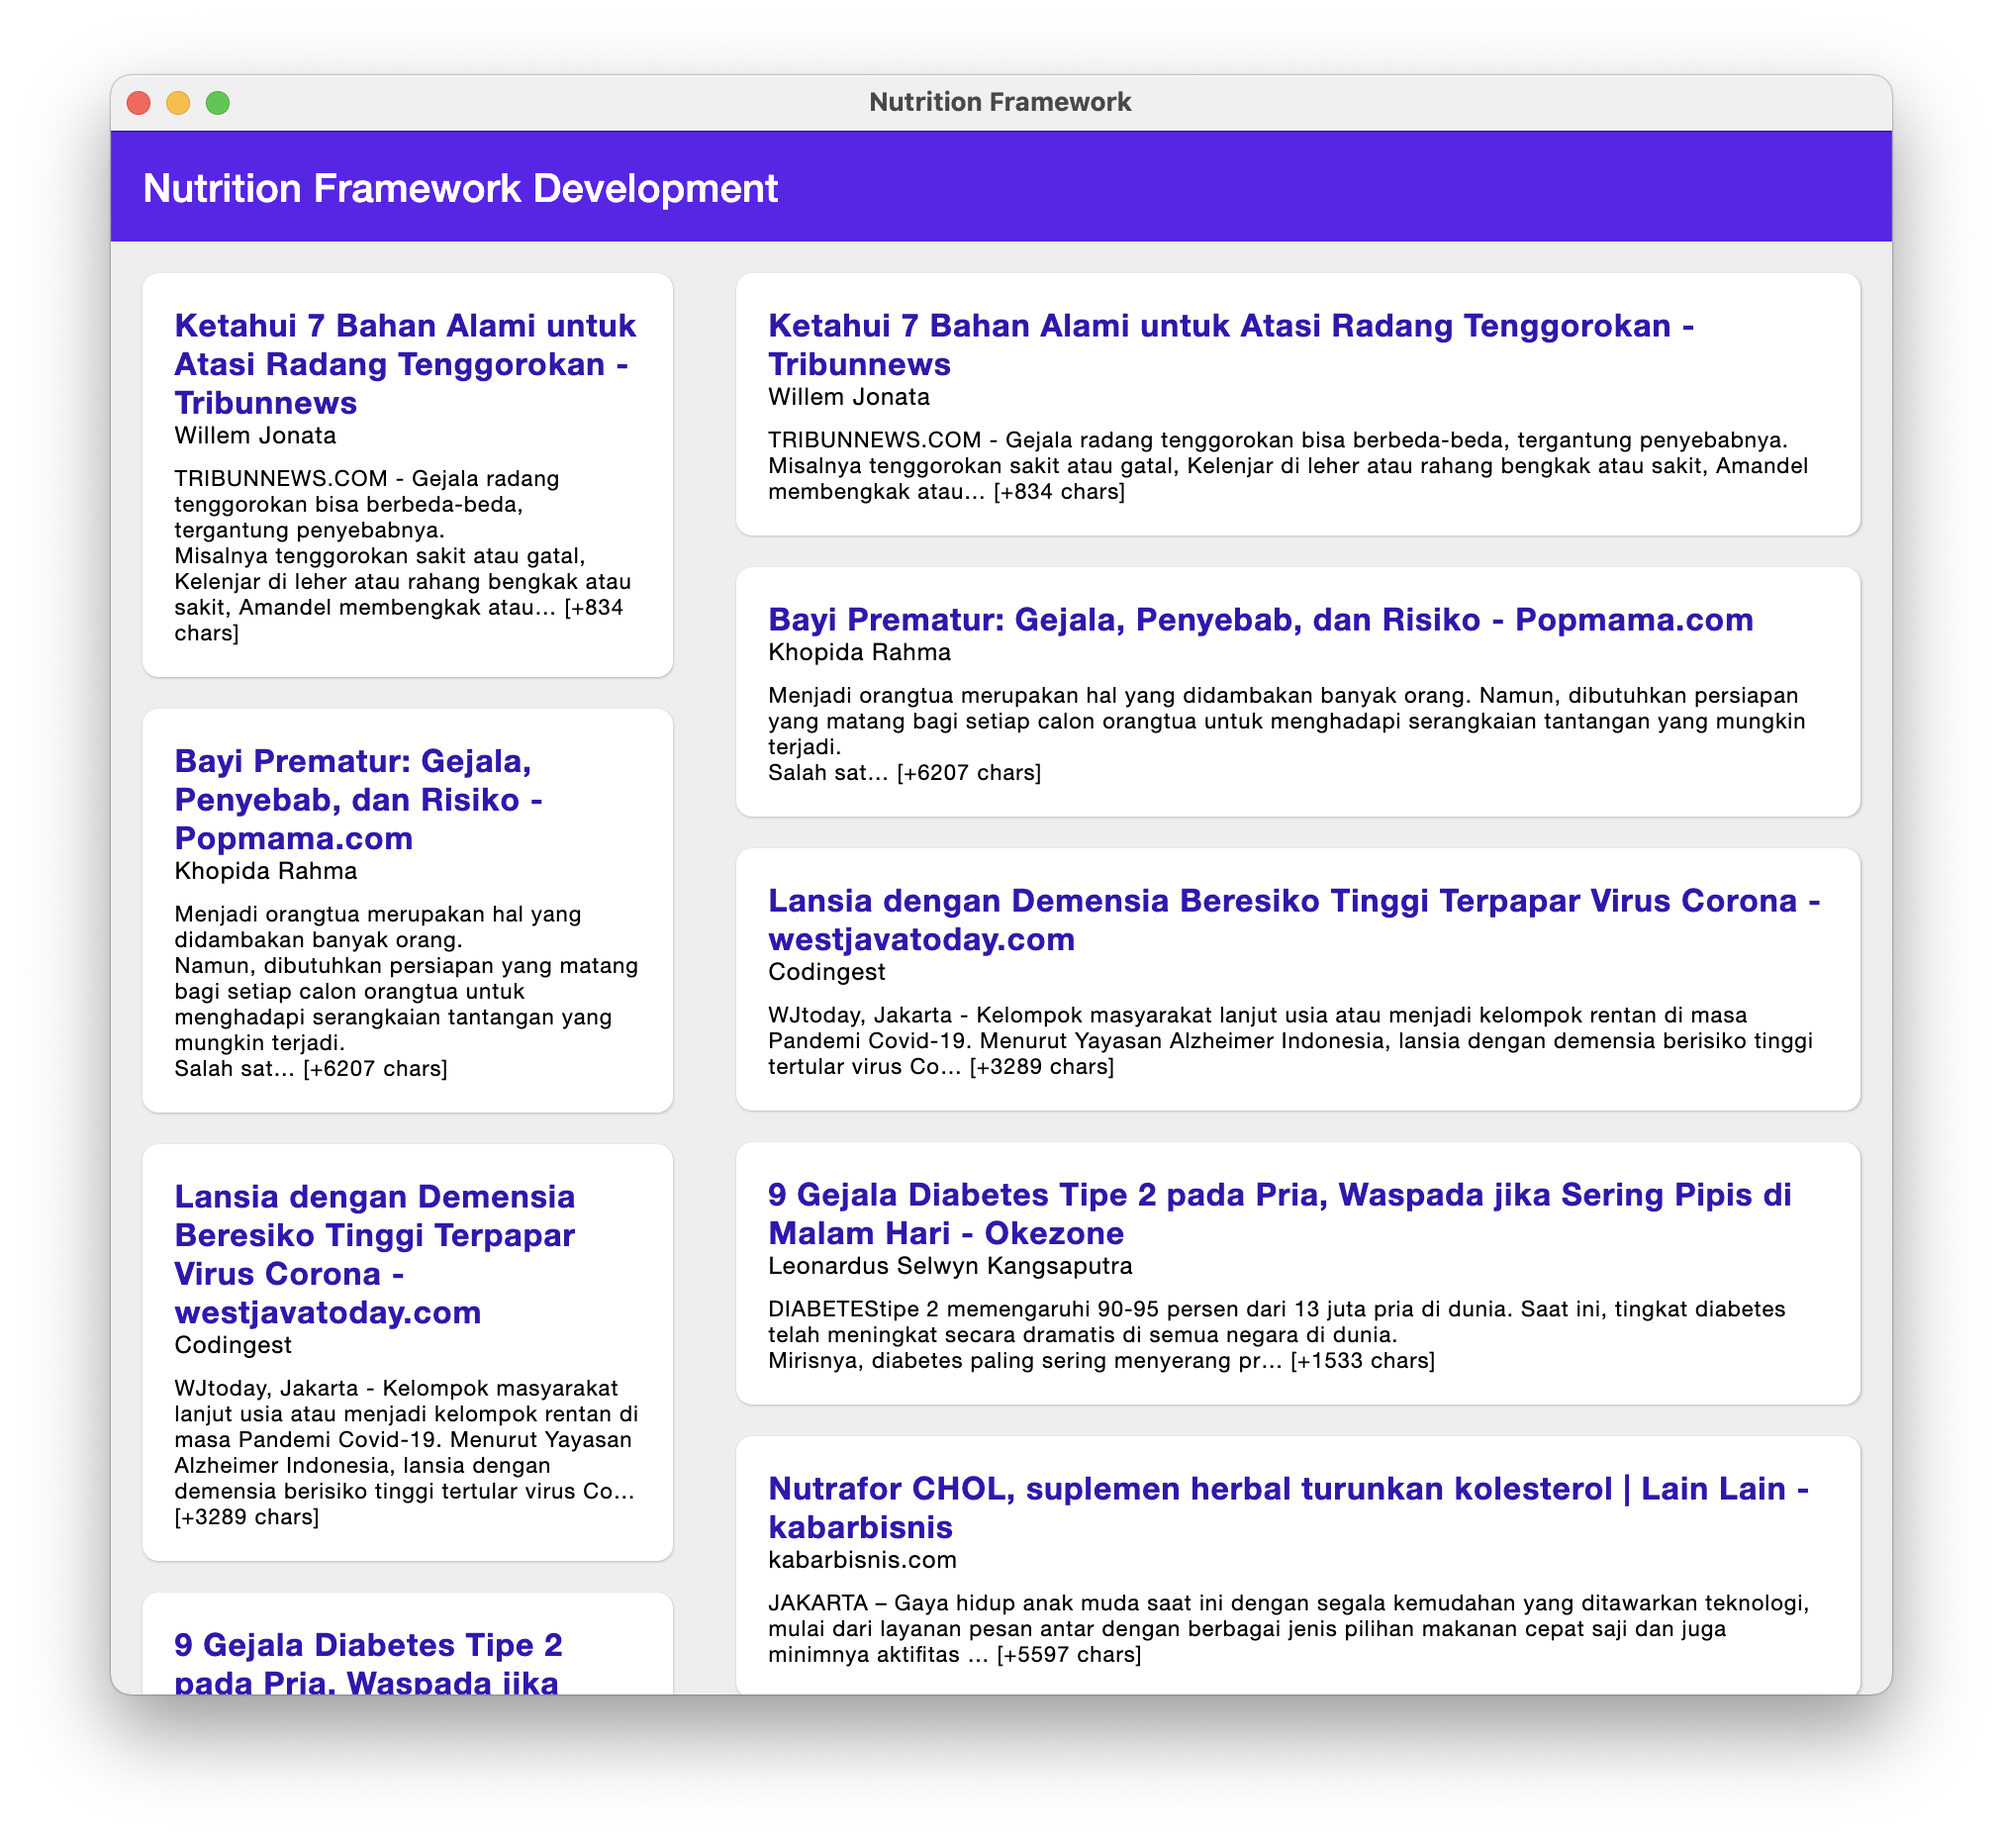
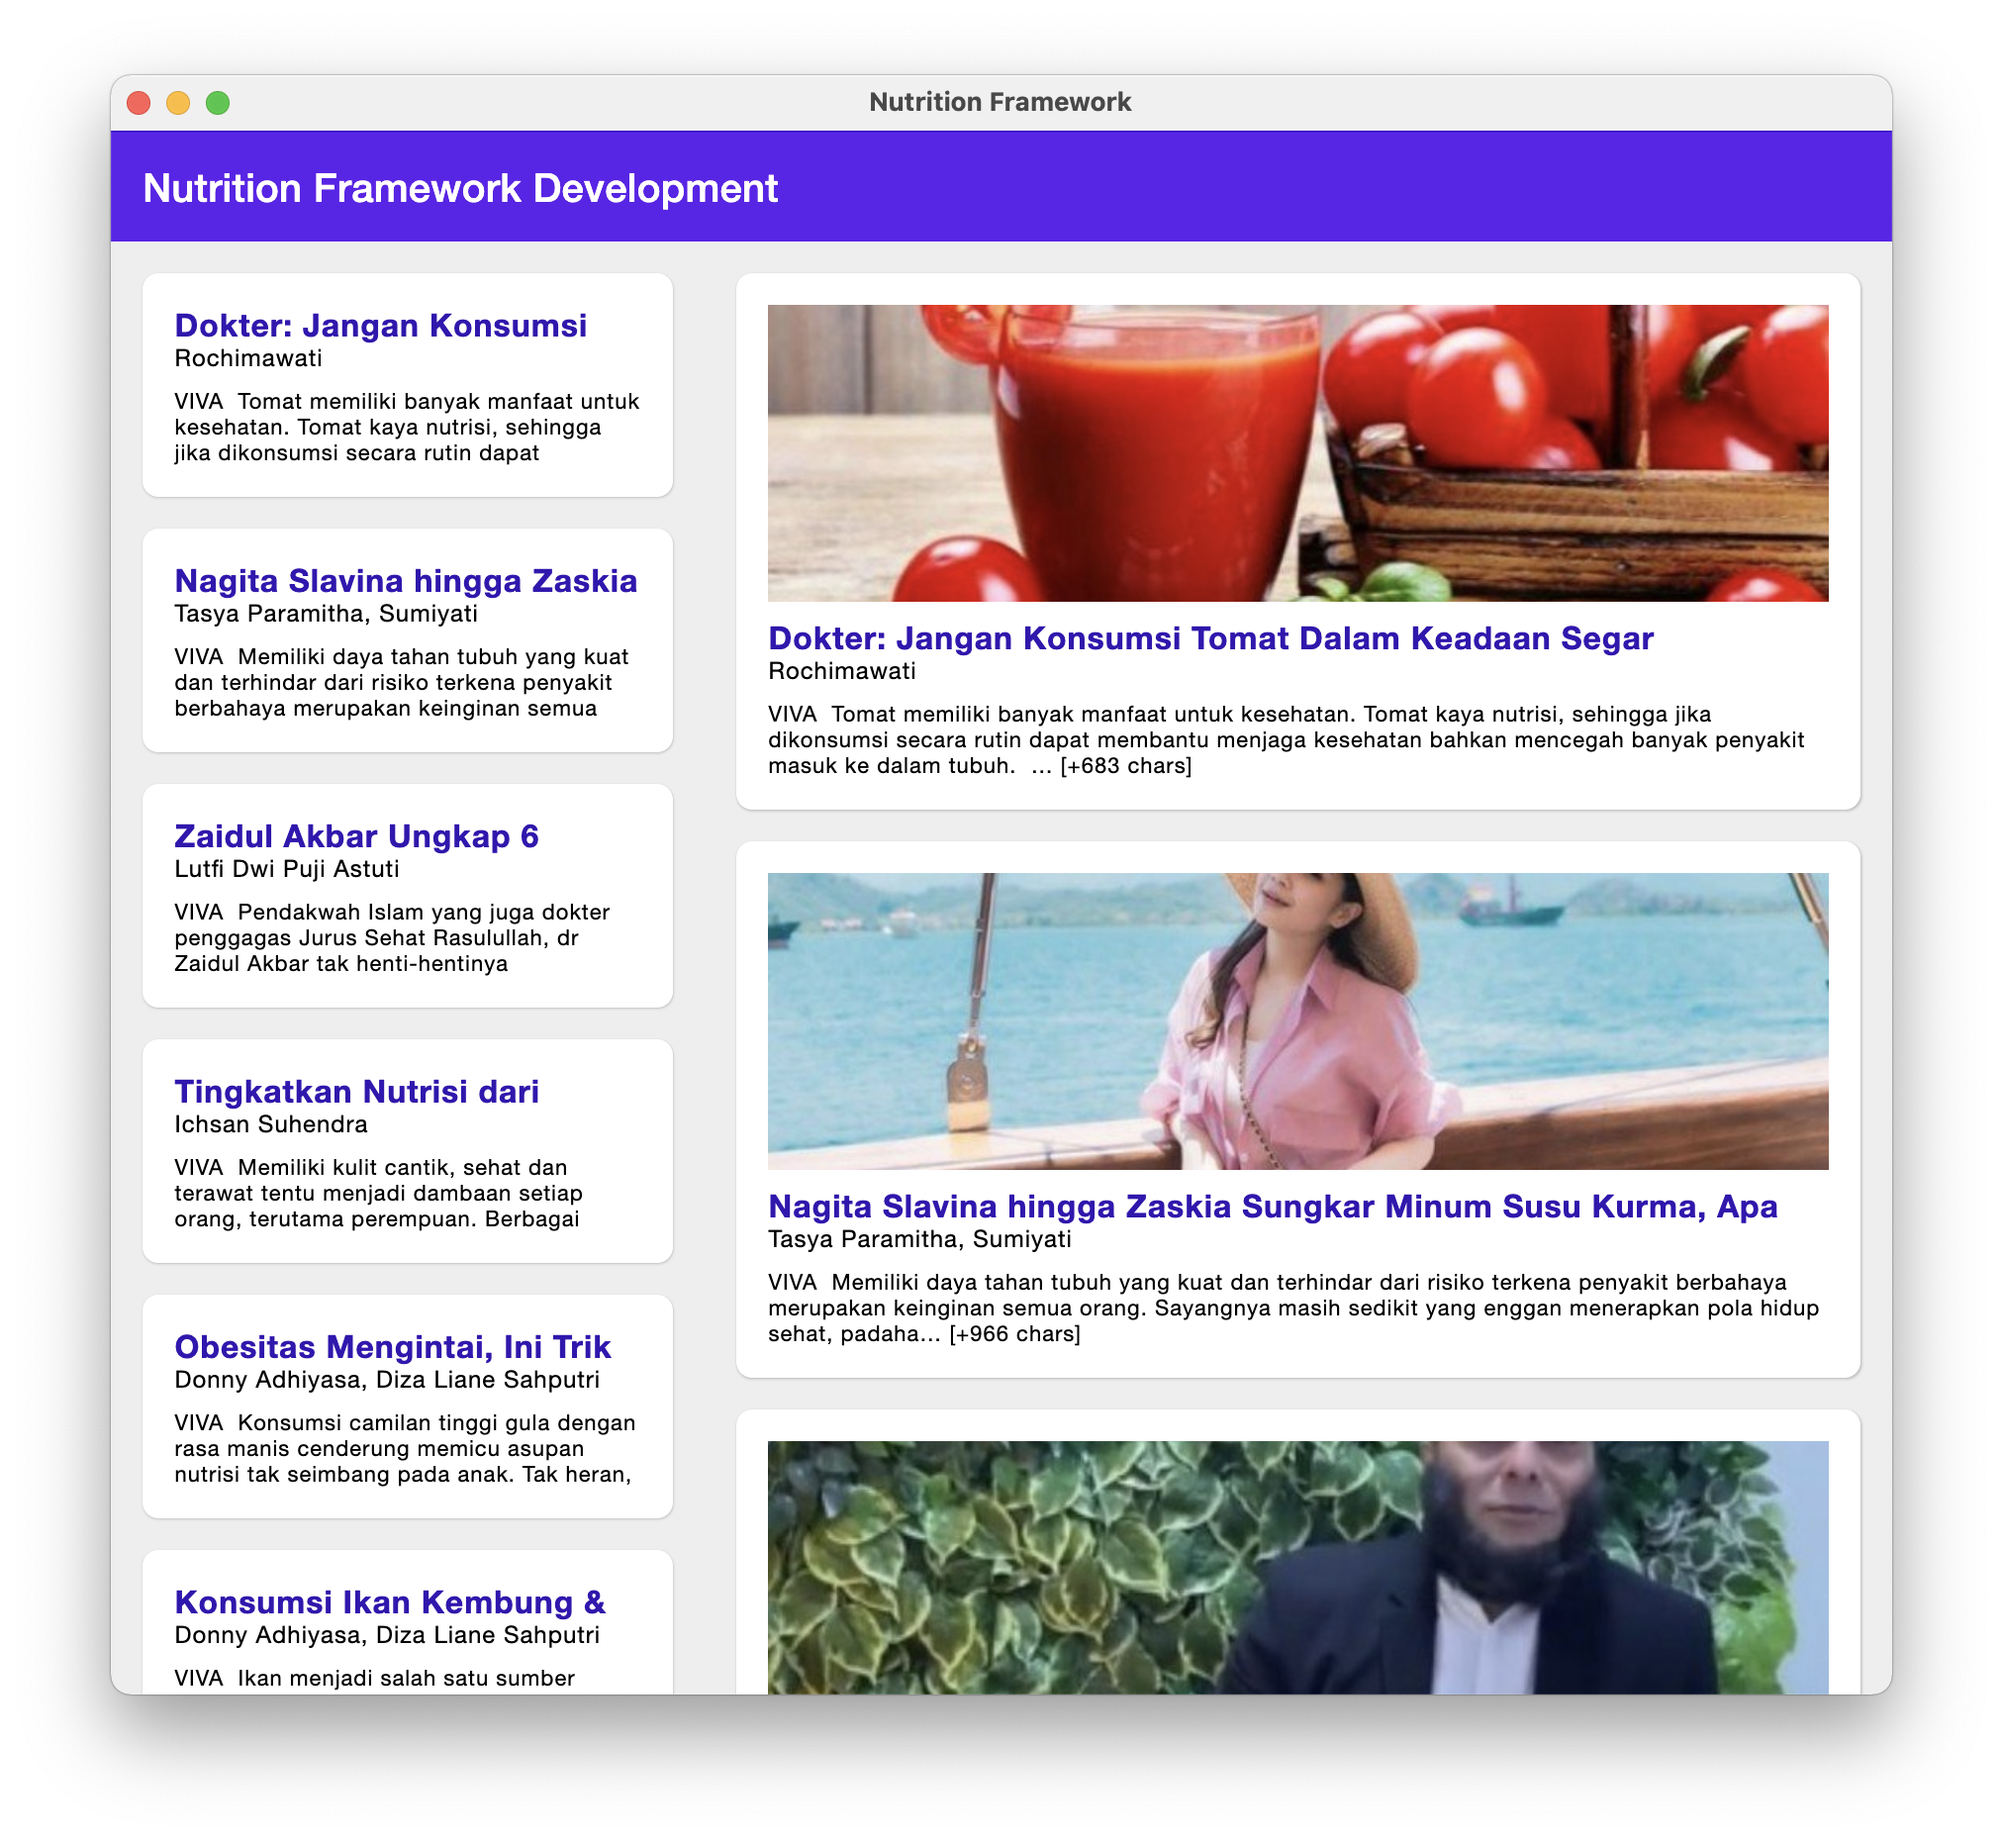
update: nutrition-framework:0.0.2-alpha10

diff --git a/src/main/kotlin/Main.kt b/src/main/kotlin/Main.kt
@@ -2,7 +2,10 @@
 import androidx.annotation.DrawableRes
 import androidx.compose.desktop.DesktopMaterialTheme
 import androidx.compose.desktop.ui.tooling.preview.Preview
+import androidx.compose.foundation.Image
 import androidx.compose.foundation.layout.*
+import androidx.compose.foundation.shape.RoundedCornerShape
+import androidx.compose.material.Card
 import androidx.compose.material.MaterialTheme
 import androidx.compose.runtime.*
 import androidx.compose.ui.Alignment
@@ -25,7 +28,15 @@ import com.frogobox.nutritioncore.util.news.NewsUrl
 import kotlinx.coroutines.DelicateCoroutinesApi
 import kotlinx.coroutines.GlobalScope
 import kotlinx.coroutines.launch
-import org.jetbrains.skia.Bitmap
+import androidx.compose.ui.graphics.ImageBitmap
+import androidx.compose.ui.graphics.asImageBitmap
+import com.frogobox.nutritioncore.compose.ui.nutri_dimen_8dp
+import org.jetbrains.skia.Image
+import java.io.ByteArrayOutputStream
+import java.net.HttpURLConnection
+import java.net.URL
+import javax.imageio.ImageIO
+
 
 @Composable
 @Preview
@@ -59,17 +70,23 @@ fun SetupUI() {
 
     val consumeNewsApi = ConsumeNewsApi(NewsUrl.API_KEY) // Your API_KEY
     GlobalScope.launch {
-        consumeNewsApi.getTopHeadline( // Adding Base Parameter on main function
+        consumeNewsApi.getEverythings( // Adding Base Parameter on main function
+            "Nutrisi",
             null,
             null,
-            CATEGORY_HEALTH,
+            null,
+            null,
+            null,
+            null,
             COUNTRY_ID,
+            null,
             null,
             null,
             object : NutriResponse.DataResponse<ArticleResponse> {
                 override fun onSuccess(data: ArticleResponse) {
                     for (i in data.articles?.indices!!) {
                         println("${i + 1}.\t ${data.articles?.get(i)?.title}")
+                        println("${i + 1}.\t ${data.articles?.get(i)?.urlToImage}")
                     }
                     dataState = data.articles!!
                 }
@@ -123,11 +140,14 @@ fun SetupUI() {
                 it.title?.let { it1 ->
                     it.author?.let { it2 ->
                         it.content?.let { it3 ->
-                            NutriListType3(
-                                it1,
-                                it2,
-                                it3
-                            )
+                            it.urlToImage?.let { it4 ->
+                                NutriListType11(
+                                    it4,
+                                    it1,
+                                    it2,
+                                    it3
+                                )
+                            }
                         }
                     }
                 }
@@ -135,6 +155,5 @@ fun SetupUI() {
 
         }
     }
-
 
 }
